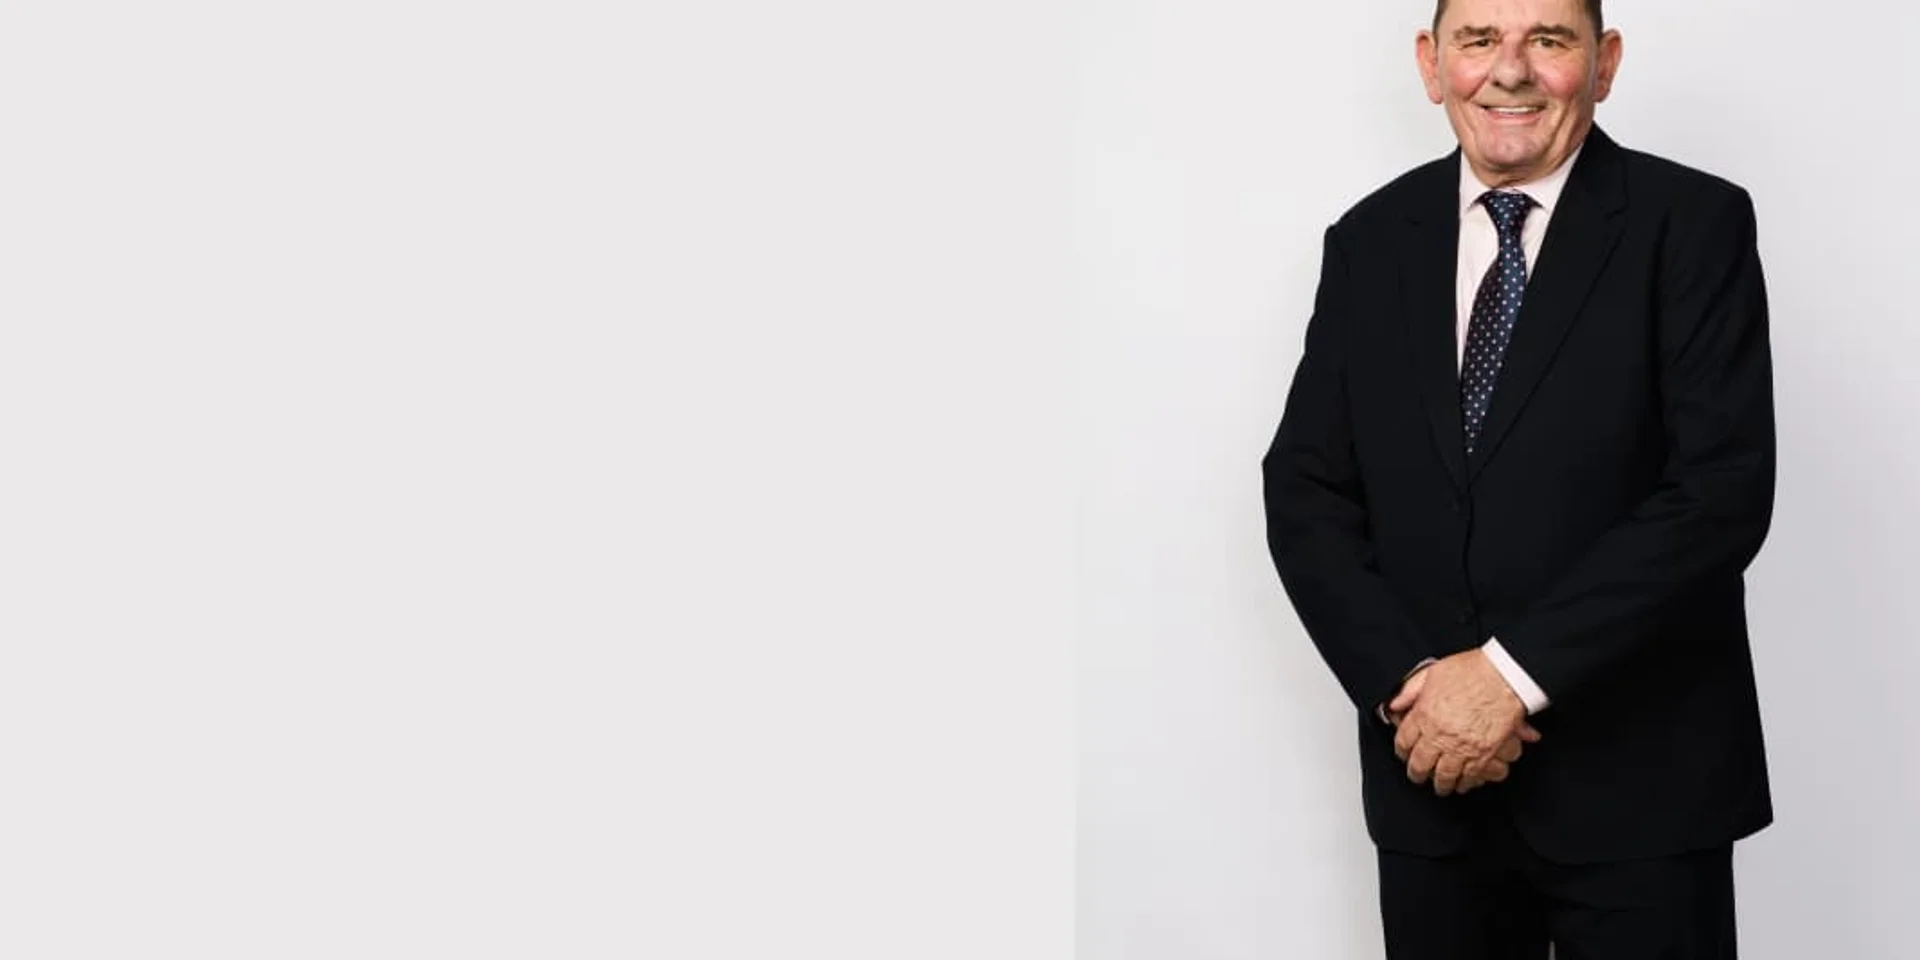
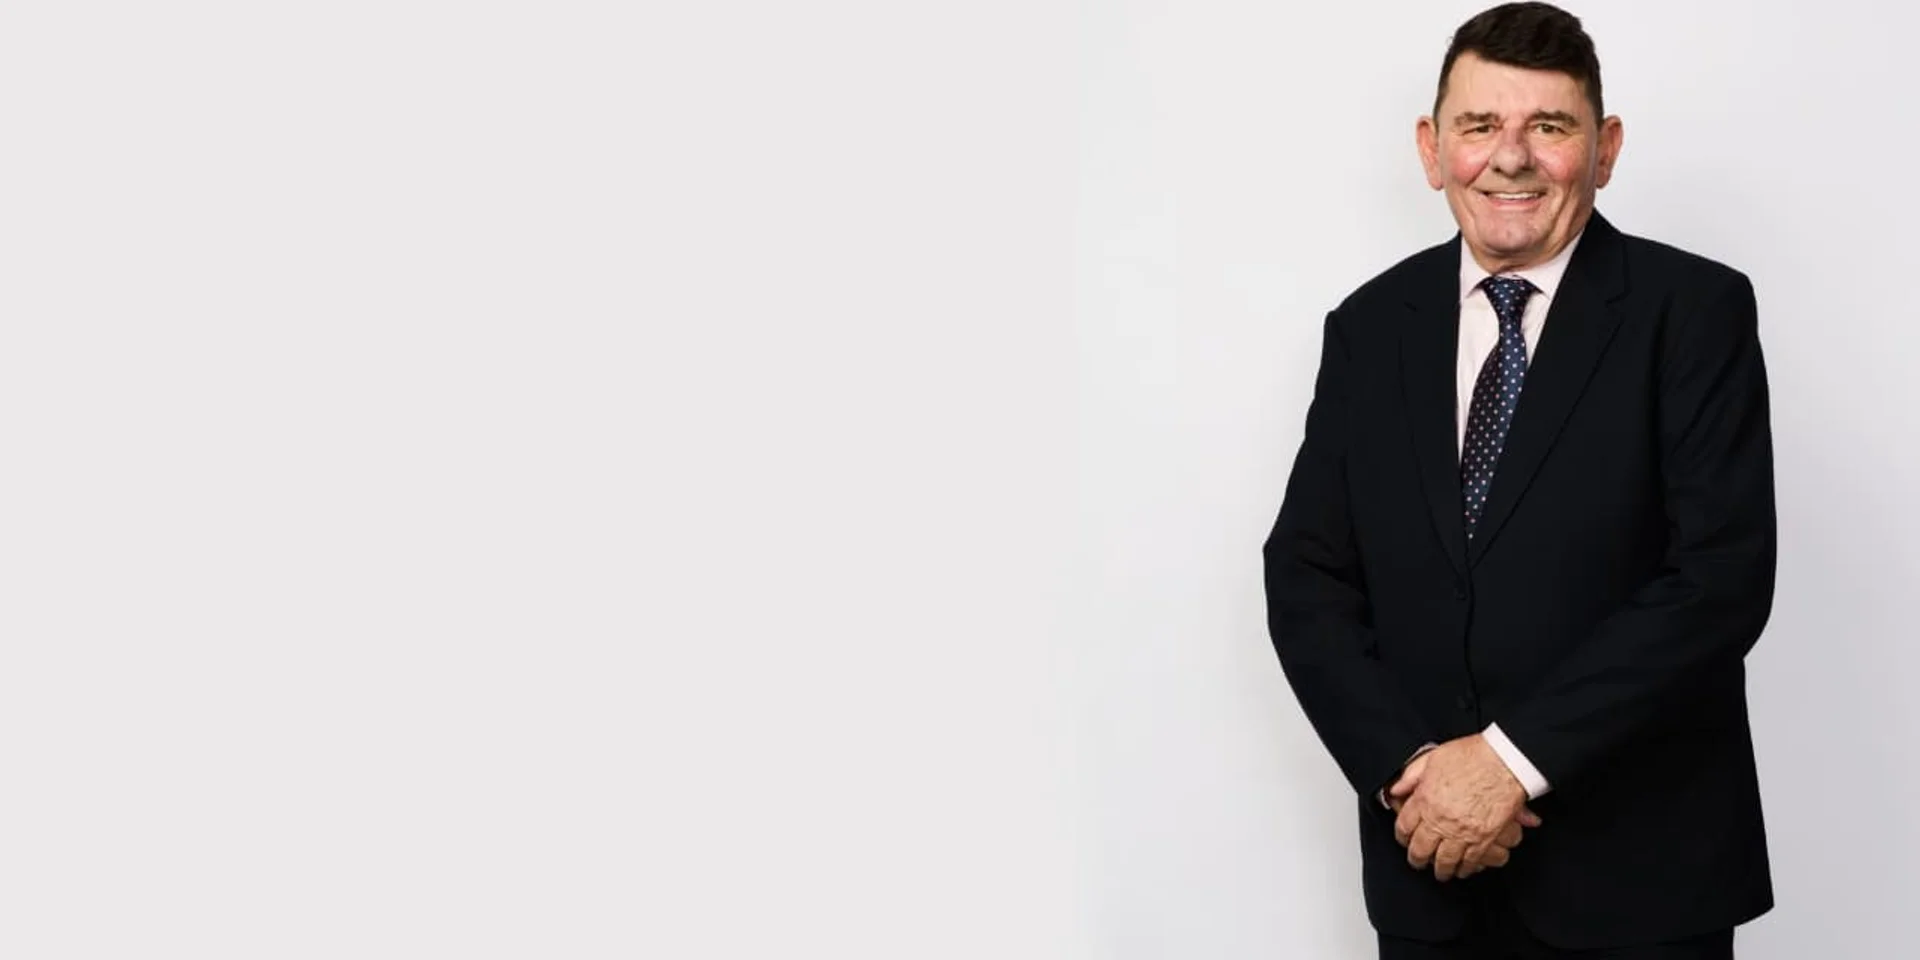
refactor: hero carousel height; add video in gallery page

Changed region(s): [[0.6562, 0.0, 0.9375, 0.9688], [0.875, 0.5312, 0.9375, 0.9688], [0.7188, 0.9688, 0.75, 1.0]]

diff --git a/app/gallery/page.tsx b/app/gallery/page.tsx
@@ -2,7 +2,7 @@
 
 import { useState, useEffect } from "react";
 import Image from "next/image";
-import { Play, X, ChevronLeft, ChevronRight, Eye } from "lucide-react";
+import { X, ChevronLeft, ChevronRight, Eye } from "lucide-react";
 import { motion, AnimatePresence } from "framer-motion";
 
 interface GalleryImage {
@@ -57,7 +57,6 @@ const categories = ["All", "Projects", "Products", "Facades"];
 export default function Gallery() {
   const [selectedCategory, setSelectedCategory] = useState("All");
   const [activeImageIndex, setActiveImageIndex] = useState<number | null>(null);
-  const [isVideoPlaying, setIsVideoPlaying] = useState(false);
 
   // Filtered images based on active tab selection
   const filteredImages = galleryRegistry.filter(
@@ -82,69 +81,35 @@ export default function Gallery() {
 
   return (
     <div className="flex flex-col w-full font-sans overflow-hidden">
-      {/* Page Header Hero */}
-      <section className="bg-primary text-text-inverse py-20 relative overflow-hidden">
-        <div
-          className="absolute inset-0 opacity-20 bg-cover bg-center pointer-events-none"
-          style={{
-            backgroundImage: `linear-gradient(to right, rgba(10, 17, 34, 0.95) 30%, rgba(10, 17, 34, 0.6) 100%), url('/images/general/cta-bg.webp')`,
-          }}
-        />
-        <div className="absolute inset-0 opacity-10 bg-[linear-gradient(to_right,#80808012_1px,transparent_1px),linear-gradient(to_bottom,#80808012_1px,transparent_1px)] bg-[size:32px_32px] pointer-events-none" />
-        <div className="relative mx-auto max-w-7xl px-6 md:px-10 w-full flex flex-col space-y-4 z-10">
-          <span className="text-accent font-accent font-semibold tracking-wider text-xs uppercase">
-            Visual Showcases
-          </span>
-          <h1 className="text-4xl md:text-5xl font-bold tracking-tight">Media Gallery</h1>
-          <p className="text-lg text-text-muted max-w-2xl leading-relaxed">
-            Explore our premium installations, specialized aluminum profile applications, and manufacturing precision.
-          </p>
-        </div>
-      </section>
+      <section className="relative h-[90vh] min-h-[450px] flex items-center bg-primary text-text-inverse overflow-hidden">
+        <video
+          autoPlay
+          muted
+          loop
+          playsInline
+          preload="auto"
+          poster="/images/headers/projects.webp"
+          className="absolute inset-0 w-full h-full object-cover pointer-events-none z-0"
+        >
+          <source src="/video.webm" type="video/webm" />
+          <source src="/video.mp4" type="video/mp4" />
+          Your browser does not support the video tag.
+        </video>
 
-      {/* Featured Video Section */}
-      <section className="bg-surface py-16 border-b border-border-custom/30">
-        <div className="mx-auto max-w-7xl px-6 md:px-10 flex flex-col space-y-10">
-          <div className="text-center max-w-2xl mx-auto space-y-3">
-            <h2 className="text-2xl md:text-3xl font-bold text-primary font-accent">Featured Corporate Video</h2>
-            <div className="w-12 h-1 bg-accent mx-auto" />
-            <p className="text-sm text-text-secondary leading-relaxed">
-              Take a virtual walkthrough of our engineering processes and custom glazing installations.
+        {/* Dark Architectural Mask & Grid Overlays */}
+        <div className="absolute inset-0 bg-gradient-to-r from-primary/95 via-primary/80 to-primary/30 z-10" />
+        <div className="absolute inset-0 opacity-10 bg-[linear-gradient(to_right,#80808012_1px,transparent_1px),linear-gradient(to_bottom,#80808012_1px,transparent_1px)] bg-[size:32px_32px] pointer-events-none z-10" />
+
+        {/* Header Text overlay */}
+        <div className="relative mx-auto max-w-7xl px-6 md:px-10 w-full z-20 flex flex-col justify-center h-full">
+          <div className="max-w-2xl flex flex-col space-y-4">
+            <span className="text-accent font-accent font-semibold tracking-wider text-xs uppercase">
+              Visual Showcases
+            </span>
+            <h1 className="text-4xl md:text-5xl lg:text-6xl font-bold tracking-tight text-white leading-tight">Media Gallery</h1>
+            <p className="text-base md:text-lg text-text-muted leading-relaxed">
+              Explore our premium installations, specialized aluminum profile applications, and manufacturing precision captured in motion.
             </p>
-          </div>
-
-          {/* Responsive Performance-Optimized Video Player */}
-          <div className="relative aspect-video max-w-4xl mx-auto w-full bg-primary-dark border border-border-custom/40 rounded-sm shadow-card overflow-hidden group">
-            {!isVideoPlaying ? (
-              <div className="absolute inset-0 z-10 flex items-center justify-center pointer-events-auto">
-                <Image
-                  src="/images/general/cta-bg.webp"
-                  alt="Corporate Video Poster"
-                  fill
-                  priority
-                  className="object-cover transition-transform duration-500 group-hover:scale-102"
-                />
-                <div className="absolute inset-0 bg-black/40 transition-colors group-hover:bg-black/50" />
-                <button
-                  onClick={() => setIsVideoPlaying(true)}
-                  className="relative z-20 flex items-center justify-center w-16 h-16 bg-accent hover:bg-accent-light text-white rounded-full shadow-lg transition-all duration-300 hover:scale-105 active:scale-95 focus:outline-none focus-visible:ring-2 focus-visible:ring-accent"
-                  aria-label="Play Corporate Video"
-                >
-                  <Play className="h-6 w-6 fill-current ml-1" />
-                </button>
-              </div>
-            ) : (
-              <video
-                src="" // Placeholder fallback source - to be updated by client manually
-                controls
-                autoPlay
-                preload="metadata"
-                className="w-full h-full object-cover"
-                aria-label="Corporate video playback player"
-              >
-                Your browser does not support the video tag.
-              </video>
-            )}
           </div>
         </div>
       </section>
@@ -169,11 +134,10 @@ export default function Gallery() {
                     setSelectedCategory(cat);
                     setActiveImageIndex(null); // Reset lightbox indexes
                   }}
-                  className={`px-4 py-2 text-xs font-accent font-semibold tracking-wider rounded-sm transition-all duration-200 border ${
-                    selectedCategory === cat
+                  className={`px-4 py-2 text-xs font-accent font-semibold tracking-wider rounded-sm transition-all duration-200 border ${selectedCategory === cat
                       ? "bg-accent border-accent text-white shadow-sm"
                       : "bg-surface border-border-custom/40 text-text-secondary hover:text-accent hover:border-accent"
-                  }`}
+                    }`}
                 >
                   {cat}
                 </button>

diff --git a/app/page.tsx b/app/page.tsx
@@ -162,7 +162,7 @@ export default function Home() {
     <div className="flex flex-col w-full font-sans overflow-hidden">
 
       {/* 1. Hero Section (Dynamic Slider) */}
-      <section className="relative h-[80vh] min-h-[600px] flex items-center bg-primary text-text-inverse overflow-hidden">
+      <section className="relative h-[90vh] min-h-[600px] flex items-center bg-primary text-text-inverse overflow-hidden">
         {heroSlides.map((slide, index) => (
           <div
             key={index}